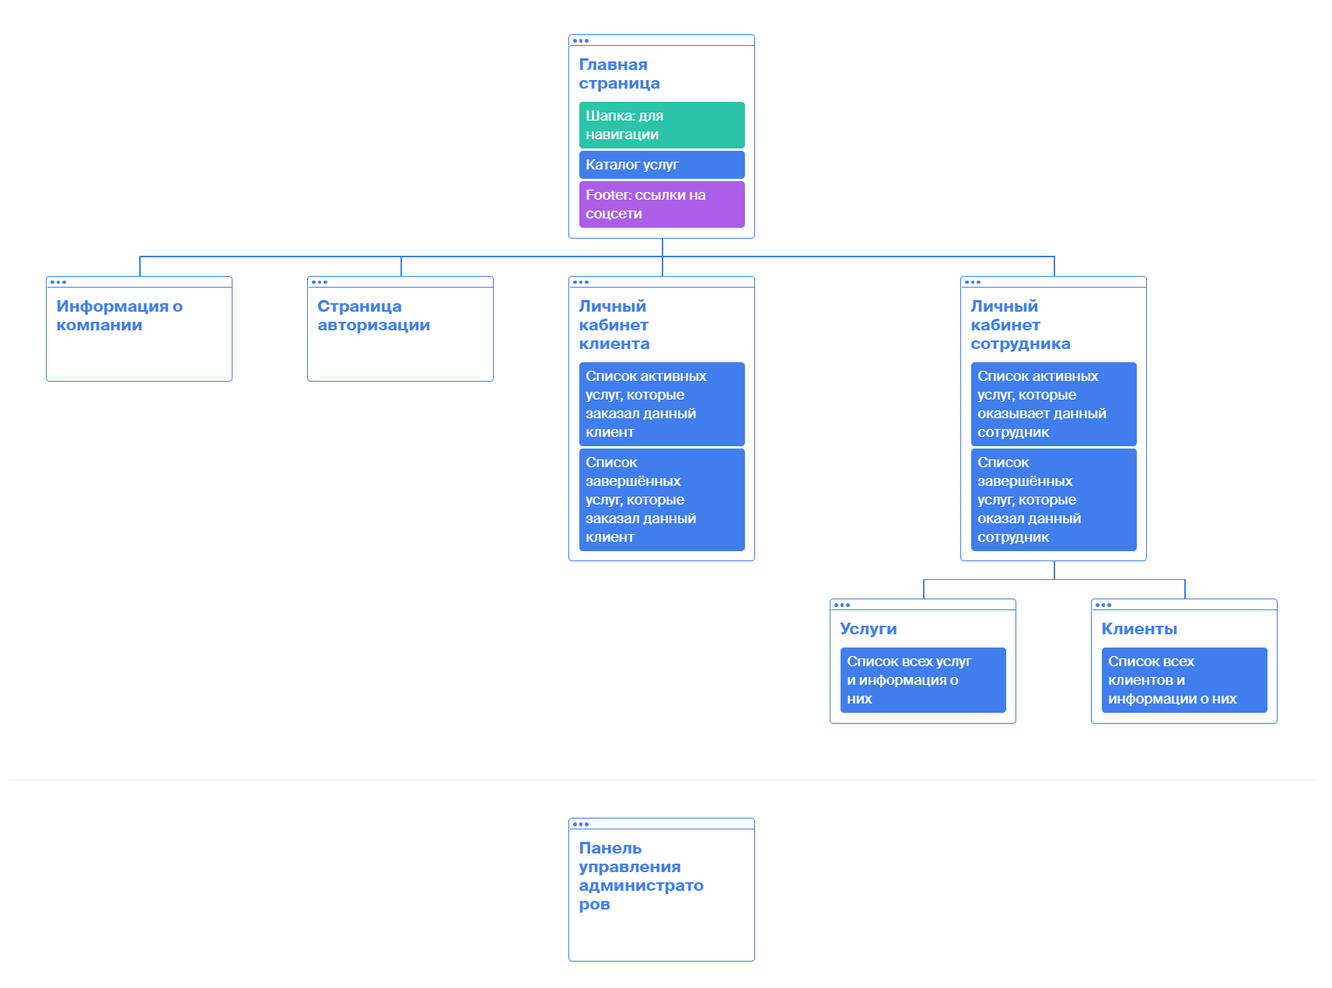
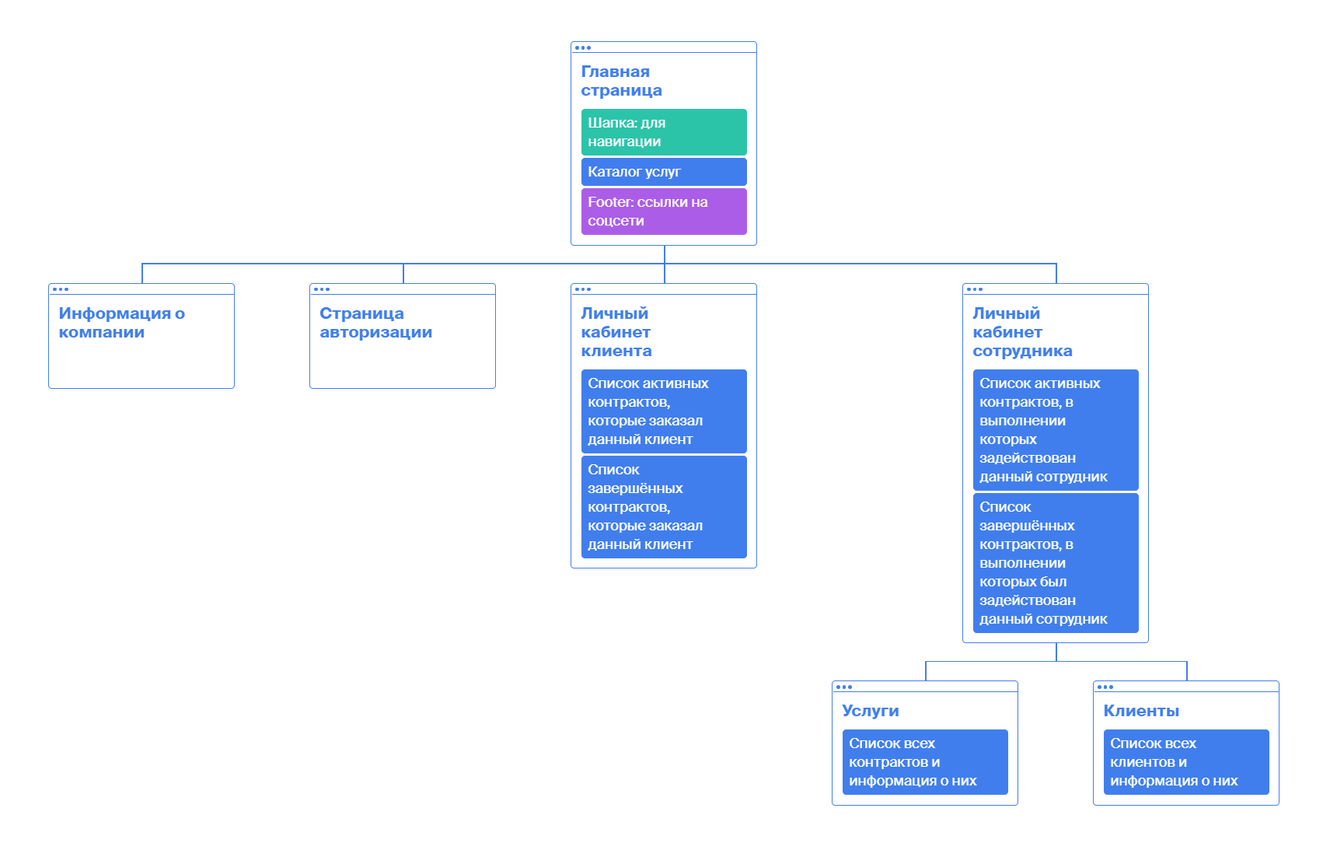
implemented the requirements

diff --git a/README.md b/README.md
@@ -10,7 +10,7 @@
 + Если пользователь авторизовался, то есть возможность перехода на страницу "личный кабинет"
 
 Главная часть страницы
-+ Каталог услуг, название вместе с описанием и ценами. Есть возможности фильтрации (например, отображение услуг в определённом интервале цен или только услуг, связанных с определённой областью, например, услуги с тегом "защита потребителей") и возможности настройки порядка отображения услуг в каталоге (по популярности / по цене | по убыванию / по возрастанию). Авторизованный клиент может заказать услугу, выбрав нужную в каталоге услуг
++ Каталог услуг, название вместе с описанием и ценами. Есть возможности фильтрации (например, отображение услуг в определённом интервале цен или только услуг, связанных с определённой областью, например, услуги с тегом "защита потребителей") и возможности настройки порядка отображения услуг в каталоге (по популярности / по цене | по убыванию / по возрастанию). Авторизованный клиент может заказать услугу, выбрав нужную в каталоге услуг и нажав кнопку `оформить`
   
 Внизу главной страницы (footer)
 + Информация о контактах фирмы (ссылки на соцсети) и адрес фирмы
@@ -26,29 +26,29 @@
 ### Страница личный кабинет клиента
 *Эта страница доступна только тем, кто авторизовался как клиент.*
 
-Наверху поля, отображающие информацию о клиенте, которые сам клиент может редактировать. Далее чуть ниже идёт список незаконченных услуг, а ещё ниже список завершённых услуг данного клиента.
+Наверху поля, отображающие информацию о клиенте, которые сам клиент может редактировать. Есть кнопка `удалить аккаунт`. Далее чуть ниже идёт список незаконченных услуг, а ещё ниже список завершённых услуг данного клиента.
 
 ### Страница личный кабинет сотрудника
 *Эта страница доступна только тем, кто авторизовался как сотрудник.*
 
-Наверху поля, отображающие информацию о сотруднике, которые сам сотрудник может редактировать. Далее список активных услуг: то есть тех, которые оказывает данный сотрудник на данный момент. Активную услугу служащий может завершить. Внизу список завершённых услуг данным сотрудником.
+Наверху поля, отображающие информацию о сотруднике, которые сам сотрудник может редактировать. Есть поля для создания клиентского аккаунта. Далее список активных услуг: то есть тех, которые оказывает данный сотрудник на данный момент. Активную услугу служащий может завершить. Внизу список завершённых услуг данным сотрудником.
 
 ### Страница услуги
 *Эта страница доступна только тем, кто авторизовался как сотрудник.*
 
-На этой страницы отображаются все услуги клиентов. Есть возможность настройки параметров отображения: например, услуг, оказанных в определённый период времени, определёнными сотрудниками, определённым клиентам. Есть кнопка `добавить услугу`, к которой прилагаются поля: `логин клиента`, `участвующие сотрудники`, `тип услуги`. У сотрудника для каждой активной услуги есть кнопка `заняться услугой` или `перестать заниматься услугой`. Для активной (незавершённой) услуги у сотрудников есть возможность редактирования информации об услуги, например, её стоимости. Также у сотрудника есть кнопка `завершить услугу`, тогда услуга считается завершённой и отправляется в список завершённых услуг.
+На этой страницы отображаются все услуги клиентов. Отображаются поля название услуги-договора, дата начала, имя клиента и логин, который заказал данный контракт и несколько строк из поля дополнительной информации. Есть возможность настройки параметров отображения: например, услуг, оказанных в определённый период времени, определёнными сотрудниками, определённым клиентам. Есть кнопка `добавить услугу`, к которой прилагаются поля: `логин клиента`, `участвующие сотрудники`, `тип услуги`. У сотрудника для каждой активной услуги есть кнопка `заняться услугой` или `перестать заниматься услугой`. Для активной (незавершённой) услуги у сотрудников есть возможность редактирования информации об услуги, например, её стоимости. Также у сотрудника есть кнопка `завершить услугу`, тогда услуга считается завершённой и отправляется в список завершённых услуг.
 
 ### Страница клиенты
 *Эта страница доступна только тем, кто авторизовался как сотрудник.*
 
-Отображает список всех клиентов и услуг, которые они заказывали. Служающие могут просматривать любую информацию о любом клиенте.
+Отображает список всех клиентов и услуг, которые они заказывали. Отображется ФИО клиента, его контактный телефон, email и логин. Служающие могут просматривать любую информацию о любом клиенте (кроме пароля клиента).
 
 ### Панель управления администраторов
 *Эта страница доступна только администраторам.*
 
 Кнопка регистрации нового служающего: поля информации о сотруднике (имя, пароль, контактный телефон, email, логин и пароль).
 
-Есть полная возможность редактирования любой информации о сотрудниках, клиентах и услугах.
+Есть полная возможность редактирования любой информации о сотрудниках, клиентах, контрактах и услугах. Для этого на панели администратора есть возможность отобразить соответсвующие списки, есть возможности настройки параметров отображения и отредактировать соответствующие поля.
 
 # Сценарии использования
 Ниже приведены сценарии использования. Нашим сайтом будут пользоваться разные пользователи, их можно разделить на три категории, каждая категория имеет разные привелегии.
@@ -60,24 +60,24 @@
 ### Примеры сценариев использования
 
 **Для клиентов, зашедших на сайт**
-+ Регистрация клиентом своего аккаунта
-+ Просмотр каталога услуг (не требует регистрации)
-+ Заказать новую юридическую услугу (требует регистрации)
-+ Просмотреть информацию о всех предыдущих услугах своего акканута (требует регистрации)
-+ Удаление клиентом своего аккаунта (требует регистрации)
++ Просмотр каталога услуг (не требует регистрации). Для этого просто заходим на главную страницу
++ Регистрация клиентом своего аккаунта. В шапке главной странице есть кнопка перехода на страницу регистрации или входа
++ Заказать новую юридическую услугу (требует регистрации). Для этого у зарегистрированных пользователей есть возможность выбрать услугу в каталоге услуг на главной странице и нажать кнопку `оформить`
++ Просмотреть информацию о всех предыдущих услугах своего акканута (требует регистрации). Для этого нужно перейти со главной странице в личный кабинет пользователя, у авторизированных пользователей в шапке главной страницы есть ссылка на страницу личного кабинета
++ Удаление клиентом своего аккаунта (требует регистрации). Для этого авторизированный клиент, зайдя в личный кабинет, нажимает кнопку `удалить аккаунт`
 
 **Сотрудники**
-+ Создание учётной записи клиента
-+ Добавление услуги к аккаунту клиента
-+ Просмотр истории услуг любого клиента
-+ Изменение информации своего аккаунта сотрудника
++ Создание учётной записи клиента. Для этого сотрудник переходит в свой личный кабинет, по ссылке в шапке главной страницы
++ Добавление услуги к аккаунту клиента. Для этого сотрудник из личного кабинета переходит на страницу клиенты, выбирает нужного клиента и добавляет ему определённую услугу из каталога услуг с помошью соответствующей кнопки
++ Просмотр истории услуг любого клиента. Для этого сотрдуник заходит на страницу услуги и в поле для фильтрации отображения вводит логин клиента
++ Изменение информации своего аккаунта сотрудника. Такая вохможность есть в личной кабинете сотрудника.
 
 **Администраторы базы**
 
-У администраторов базы есть полный доступ ко всей информации, ниже приведены наиболее важные операции, которые должны будут делать администраторы базы
-+ Создание учётной записи для нового служающего
-+ Изменение информации о любом сотруднике (сюда входит любая информация, связанная с сотрудником, а также есть вохможность изменения пароля)
-+ Удаление информации о любом сотруднике
-+ Добавление / изменение / удаление информации о клиентах
-+ Добавление / изменение / удаление списка оказываемых или оказанных услуг
-+ Добавление / изменение / удаление услуги в каталоге услуг
+У администраторов базы есть полный доступ ко всей информации, ниже приведены наиболее важные операции, которые должны будут делать администраторы базы.
++ Создание учётной записи для нового клиента / служающего / администратора. Для этого администратор заполняет соответствующие поля (имя, логин, пароль, тип привилегии)
++ Изменение информации о любом сотруднике (сюда входит любая информация, связанная с сотрудником, а также есть вохможность изменения пароля). На панели администратора есть возможность отобразить список все учётные записи, выюирает среди них только сотрудников и изменяет любое информационное поле о нём
++ Удаление информации о любом сотруднике. Администратор отображает список всех сотрудников и нажимает кнопку `удалить` напротив определённого сотрудника
++ Добавление / изменение / удаление информации о клиентах. Для этого администратор отображает список всех учётных записей и выбирает тех, которые имеют уровень привелегии клиента
++ Добавление / изменение / удаление списка договоров. Для этого администратор отображает список всех договоров и с помощью web-интерфейса редактирует соответствующие поля
++ Добавление / изменение / удаление услуги в каталоге услуг. Для этого администратор отображает список всех услуг и с помошью web-интерфейса редактирует соответствующие поля
